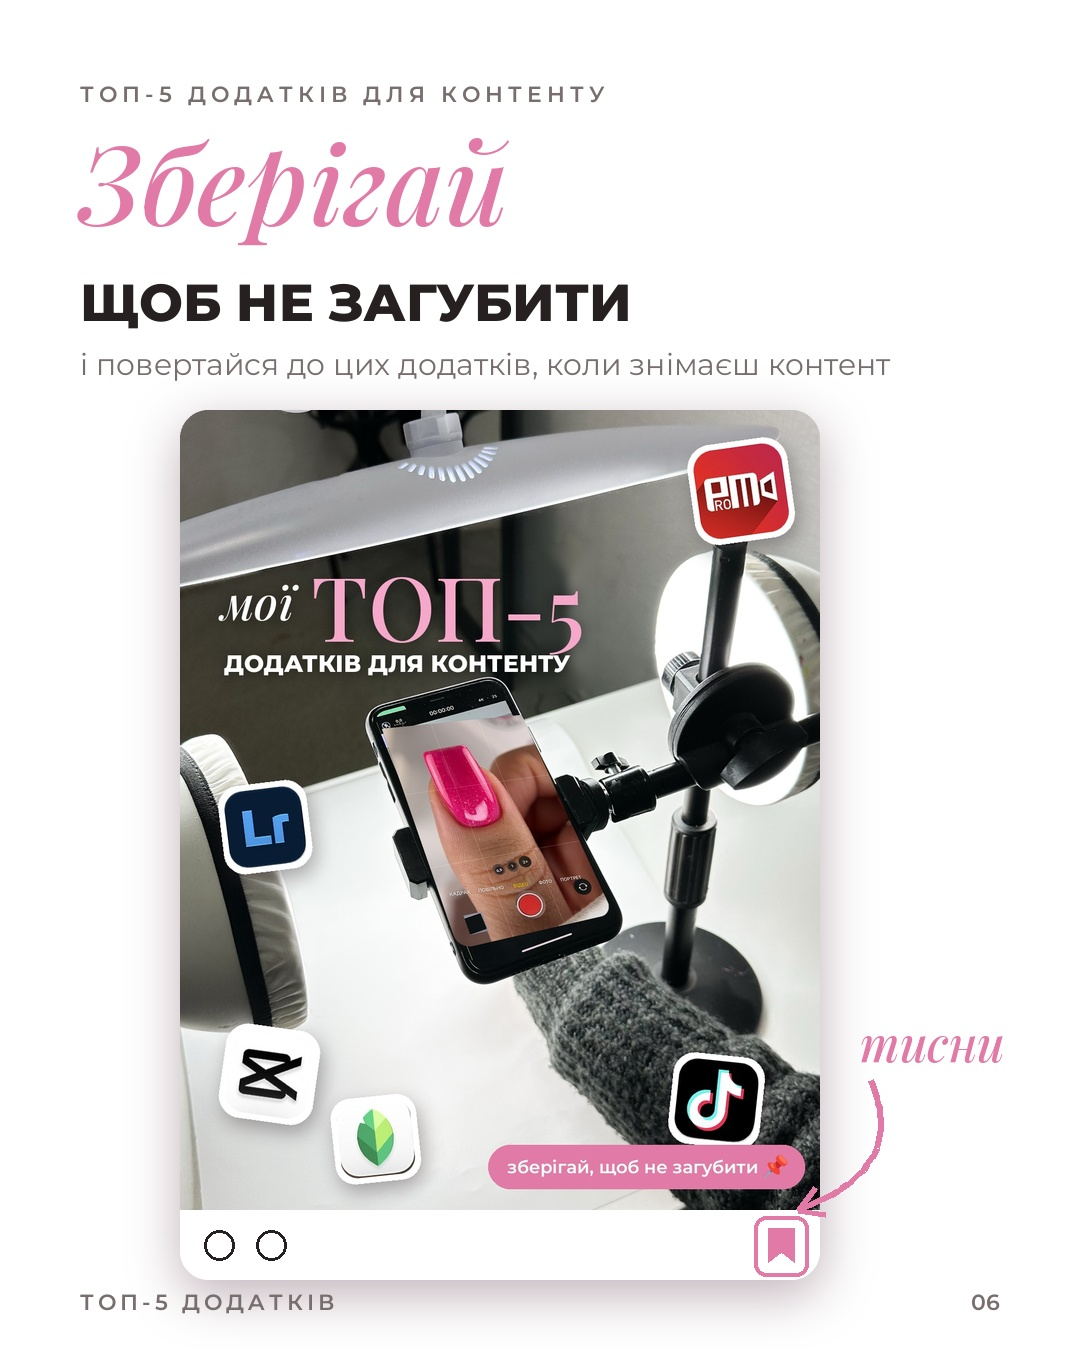
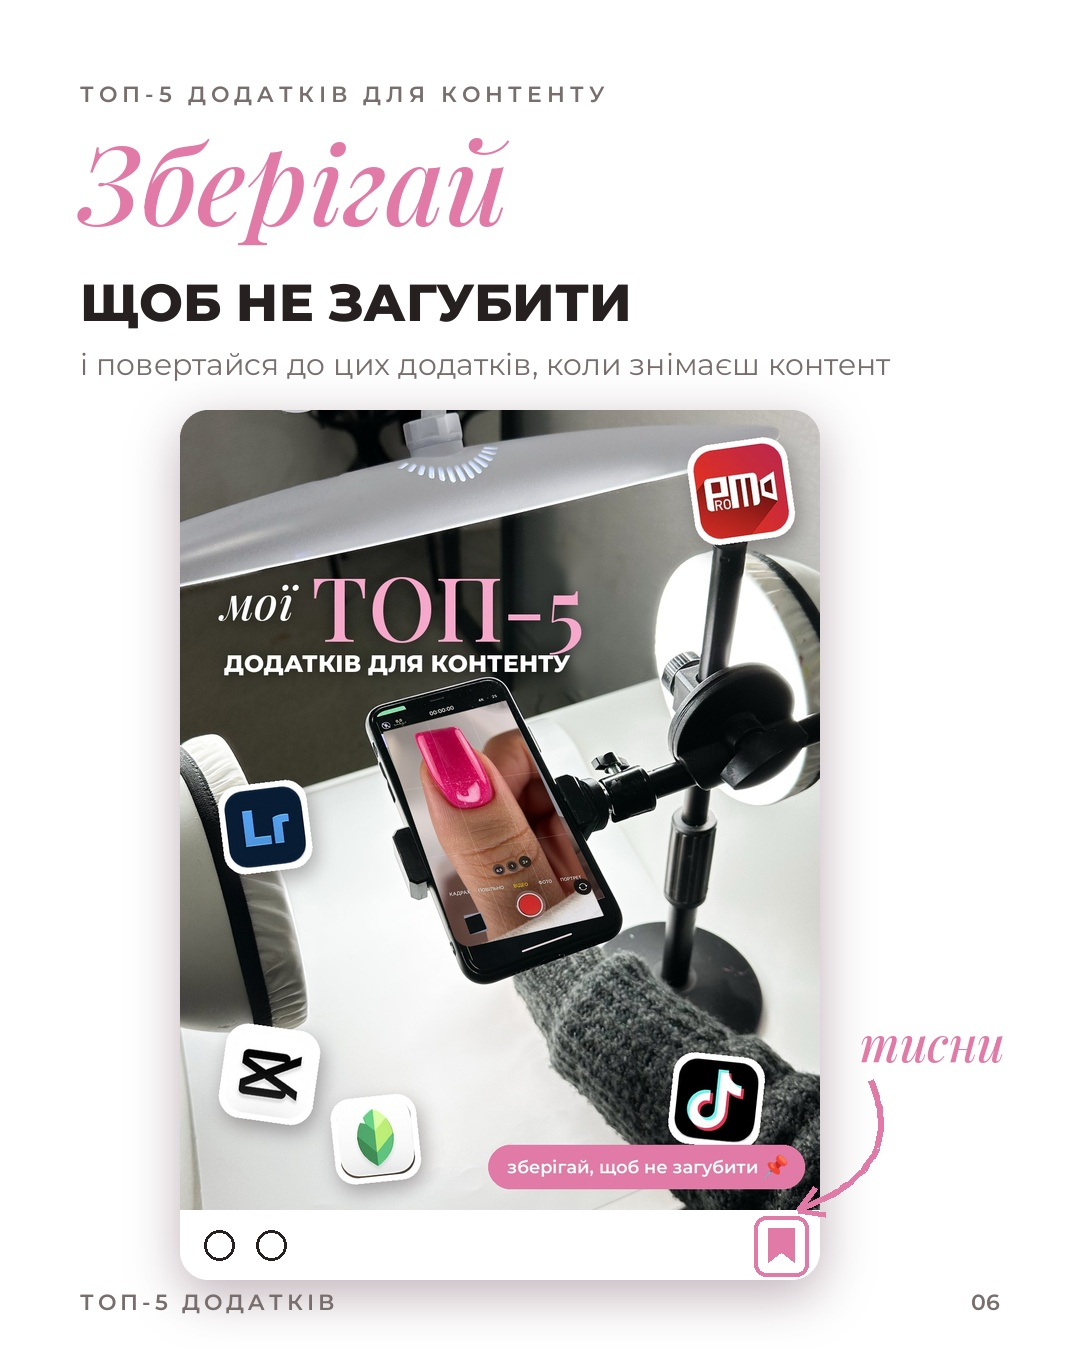
Apps cover: fit nail photo to camera preview edge
Claude-Session: https://claude.ai/code/session_0191xVL2hi5vHUvM1ix6pauC

Changed region(s): [[0.3361, 0.4978, 0.5806, 0.7156]]

diff --git a/karusel_dodatky/build_screen.py b/karusel_dodatky/build_screen.py
@@ -7,12 +7,12 @@ src=np.float32([[584,962],[1000,926],[1308,1592],[840,1700]]); dstf=np.float32([
 M=cv2.getPerspectiveTransform(src,dstf); flat=cv2.cvtColor(cv2.warpPerspective(bg,M,(FW,FH)),cv2.COLOR_BGR2RGB)
 orig=Image.fromarray(flat); new=orig.copy()
 nail=Image.open(f'{U}/90c1111e-image.png').convert('RGB').crop(tuple(CROP))
-top=205; ph=FH-top
+top=60; ph=FH-top
 s=max(FW/nail.width,ph/nail.height); n=nail.resize((round(nail.width*s),round(nail.height*s)),Image.LANCZOS)
 ox=(n.width-FW)//2; n=n.crop((ox,0,ox+FW,ph)); new.paste(n,(0,top))
 d=ImageDraw.Draw(new,'RGBA')
-for x in (333,667): d.line([(x,top),(x,FH)],fill=(255,255,255,90),width=2)
-for y in (top+ph//3,top+2*ph//3): d.line([(0,y),(FW,y)],fill=(255,255,255,90),width=2)
+for x in (310,620): d.line([(x,0),(x,FH)],fill=(255,255,255,90),width=2)
+for y in (700,1200): d.line([(0,y),(FW,y)],fill=(255,255,255,90),width=2)
 def copy_circle(cx,cy,r):
     m=Image.new('L',(FW,FH),0); ImageDraw.Draw(m).ellipse((cx-r,cy-r,cx+r,cy+r),fill=255); new.paste(orig,(0,0),m)
 for cx,cy,r in [(405,1362,38),(495,1357,38),(585,1342,40),(512,1625,92),(882,1582,58)]: copy_circle(cx,cy,r)
@@ -29,7 +29,7 @@ Mi=cv2.getPerspectiveTransform(dstf,src); back=cv2.warpPerspective(nf,Mi,(bg.sha
 mask=np.zeros((FH,FW),np.uint8); r=90
 cv2.rectangle(mask,(r,0),(FW-r,FH),255,-1); cv2.rectangle(mask,(0,r),(FW,FH-r),255,-1)
 for cx,cy in [(r,r),(FW-r,r),(r,FH-r),(FW-r,FH-r)]: cv2.circle(mask,(cx,cy),r,255,-1)
-mask[:top-5,:]=0
+poly=np.zeros((FH,FW),np.uint8); cv2.fillPoly(poly,[np.array([[0,232],[934,64],[934,FH],[0,FH]])],255); mask=cv2.bitwise_and(mask,poly)
 mw=cv2.warpPerspective(mask,Mi,(bg.shape[1],bg.shape[0])); mw=cv2.GaussianBlur(mw,(3,3),0).astype(float)[...,None]/255
 out=(back*mw+bg*(1-mw)).astype(np.uint8)
 cv2.imwrite(f'{R}/karusel_dodatky/setup_screen.jpg',out,[cv2.IMWRITE_JPEG_QUALITY,95])
